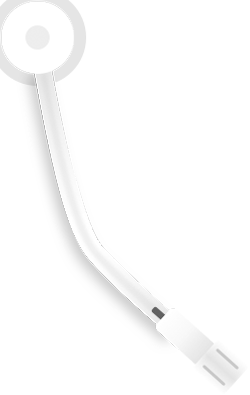
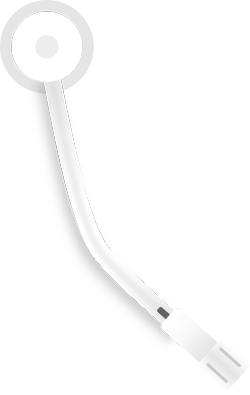
初版，基本功能实现完成，bug还未调整，代码、结构还未优化

diff --git a/index_.html b/index_.html
@@ -16,28 +16,7 @@
 			<div class="swiper-container">
 				<div class="swiper-wrapper">
 					<div class="swiper-slide swiper-slide_list">
-						<ul>
-							<!--<li data-id="1">音阙诗听 - 红昭愿1<i></i></li>
-							<li data-id="2">音阙诗听 - 红昭愿<i></i></li>
-							<li data-id="3">音阙诗听 - 红昭愿<i></i></li>
-							<li data-id="4">音阙诗听 - 红昭愿<i></i></li>
-							<li data-id="5">音阙诗听 - 红昭愿<i></i></li>
-							<li data-id="6">音阙诗听 - 红昭愿<i></i></li>
-							<li data-id="7">音阙诗听 - 红昭愿<i></i></li>
-							<li data-id="8">音阙诗听 - 红昭愿<i></i></li>
-							<li data-id="9">音阙诗听 - 红昭愿<i></i></li>
-							<li data-id="10">音阙诗听 - 红昭愿<i></i></li>
-							<li data-id="11">音阙诗听 - 红昭愿<i></i></li>
-							<li data-id="12">音阙诗听 - 红昭愿<i></i></li>
-							<li data-id="13">音阙诗听 - 红昭愿<i></i></li>
-							<li data-id="14">音阙诗听 - 红昭愿<i></i></li>
-							<li data-id="15">音阙诗听 - 红昭愿<i></i></li>
-							<li data-id="16">音阙诗听 - 红昭愿<i></i></li>
-							<li data-id="17">音阙诗听 - 红昭愿<i></i></li>
-							<li data-id="18">音阙诗听 - 红昭愿<i></i></li>
-							<li data-id="19">音阙诗听 - 红昭愿<i></i></li>
-							<li data-id="20">音阙诗听 - 红昭愿<i></i></li>-->
-						</ul>
+						<ul></ul>
 					</div>
 					<div class="swiper-slide swiper-slide_detail">
 						<div class="stylus"><img src="icon/50_79.png" /></div>

diff --git a/css/style.css b/css/style.css
@@ -13,7 +13,7 @@ body{background: url(../img/bannera.jpg) no-repeat center/cover;box-sizing: bord
 .swiper-slide_list ul li.on i{display: block;float: right;background: url(../img/loading1.gif) center/cover;width: 30px;height: 30px;position: relative;top: 3px;}
 
 .swiper-slide_detail {}
-.swiper-slide_detail .stylus{background: url(../icon/cz1.png) no-repeat center/cover;width: 20%;position: absolute;left: 50%;top: -12px;margin: 0px 0 0 -3%;transform-origin: 15% 9.5%;transform: rotate(-20deg);transition: all 0.5s ease;z-index: 1;}
+.swiper-slide_detail .stylus{background: url(../icon/cz1.png) no-repeat center/cover;width: 20%;position: absolute;left: 50%;top: -14px;margin: 0px 0 0 -3%;transform-origin: 18.8% 11.90%;transform: rotate(-20deg);transition: all 0.5s ease;z-index: 1;}
 .swiper-slide_detail .stylus img{display: block;width: 100%;}
 .swiper-slide_detail .stylus.on{transform: rotate(10deg);}
 .swiper-slide_detail .disc{/*width: 15rem;height: 15rem*/;width: 70%;margin: 60px auto 0;border-radius:100% ;overflow: hidden;background: url(../icon/cp2.png) no-repeat center/cover;position: relative;-webkit-animation:xz 40s infinite linear ;}
